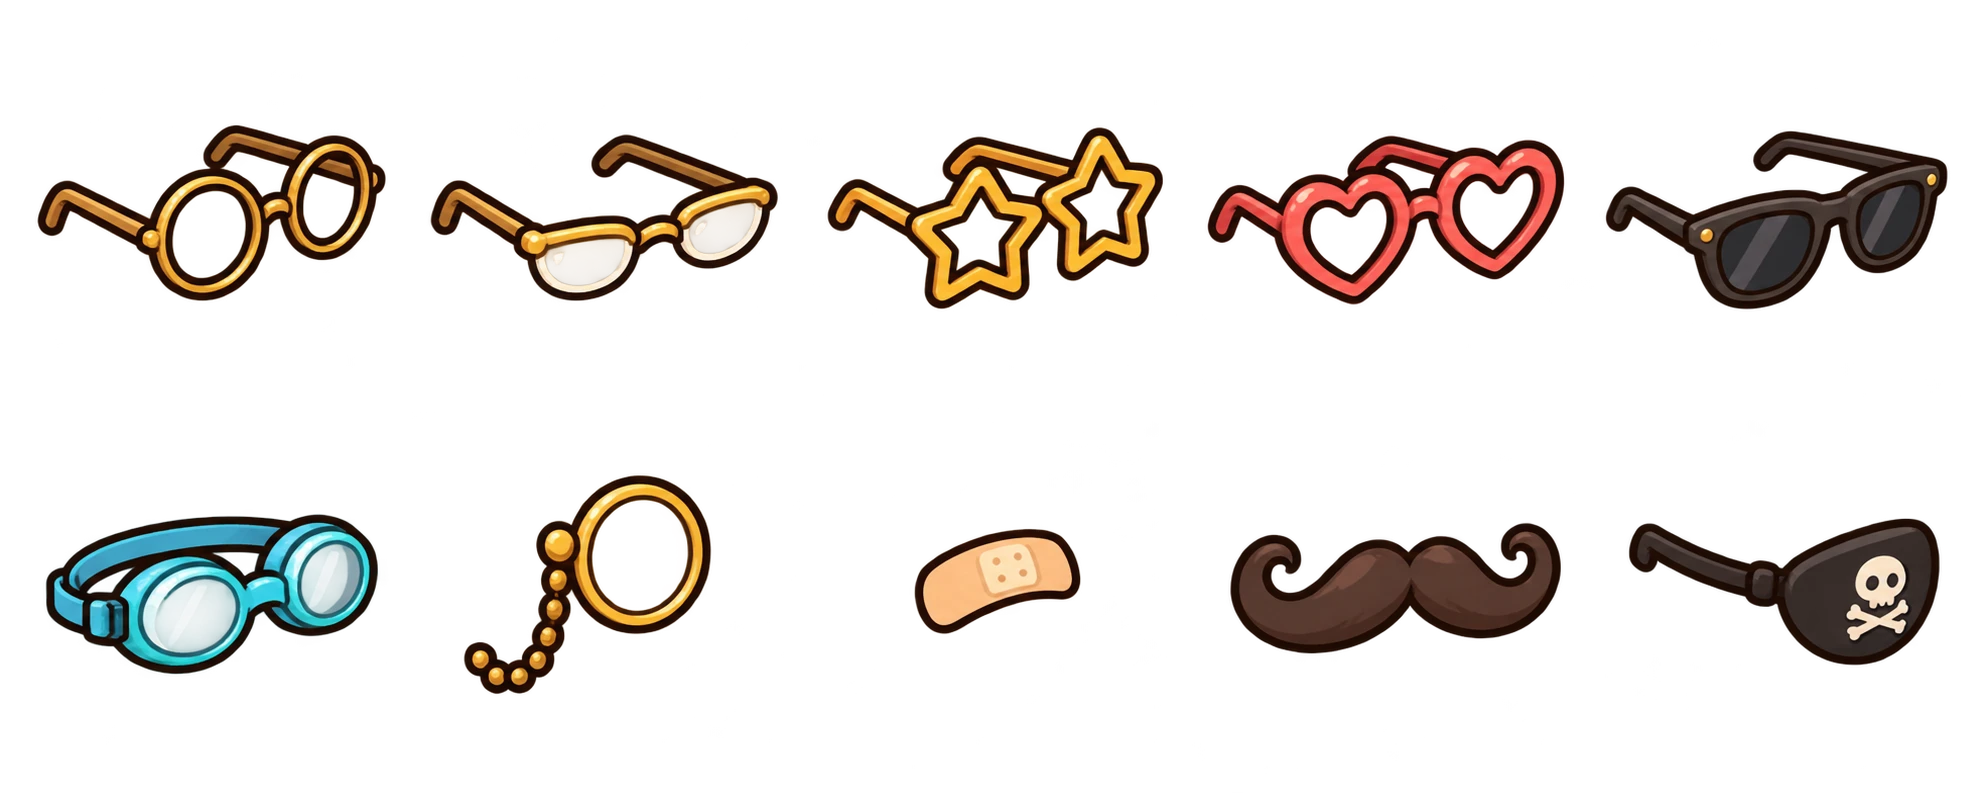
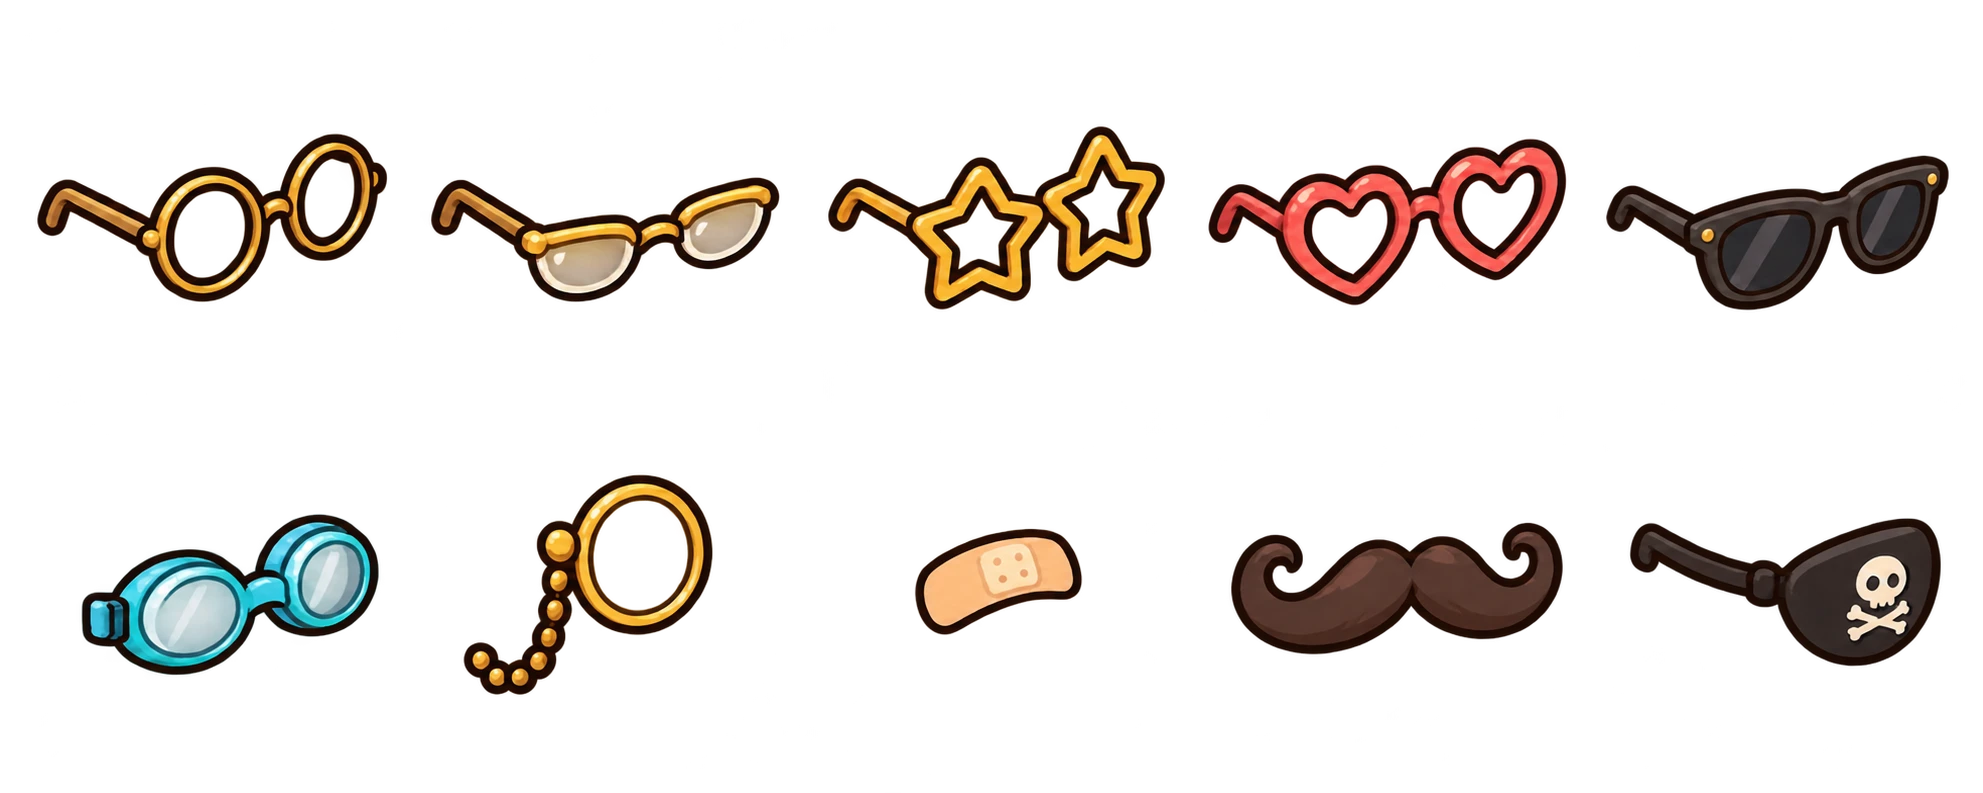
꾸미기: 숲 · 배 · 눈밭에서도 소품이 보이게 · 다시 그린 얼굴 · 목 시트 적용
- 도끼 · 배 · 눈/모래 시트도 컷마다 귀 줄 · 몸통 상자를 재서 등록 (전엔 기본 시트에만 얹혀서 필드 숲 · 배 · 눈밭에선 모자가 사라졌다)
- 05_face · 06_neck 을 다시 그린 만큼 atlas 범위를 새로 재고, 보정 값(dx · dy · k)을 거꾸로 맞춰 남은 그림은 전과 같은 자리 · 크기
- verify: 웨이브 가장자리 등장 기다림 6초 → 10초 (가끔 늦어 실패)

diff --git a/src/shared/cosmetics-draw.ts b/src/shared/cosmetics-draw.ts
@@ -7,7 +7,7 @@
 //     몸 · 꼬리 위로는 가방이 보이고 머리엔 가려진다 (뒤에만 그리면 대기 자세에선 큰 머리와 꼬리에 거의 다 가려졌다)
 //   · 냥펀치 줄(두 발)은 옷의 두 발 짝(up, 기준 컷 = 냥펀치 첫 컷), 구르기 줄은 귀가 안 보여 자동으로 숨는다
 // 소품마다 보정(src/data/cosmetics-fit.json — dx · dy · k · rot · anchor · clip · behind · r)은 cosmetics.ts fitOf. 왼쪽은 치즈와 함께 좌우로 뒤집는다.
-// 도끼 · 배 · 눈밭 · 낚시 · 샌드보드 시트는 아직 안 얹는다 (그 시트도 cat-anchors.mjs 로 재면 된다).
+// 도끼 · 배 · 눈밭/모래 시트도 컷마다 재 두었다 (기준 컷은 늘 기본 시트 대기 첫 컷 — 귀 줄 길이 비로 시트마다 다른 그림 배율도 맞는다). 낚시 · 샌드보드 시트는 아직.
 import anchorsData from '../data/cat-anchors.json' with { type: 'json' };
 import { image } from './assets.ts';
 import { CAT_ROW } from './cat.ts';
@@ -19,9 +19,9 @@ const ANCHORS = anchorsData as Record<string, FrameAnchor[][]>;
 /** 기준점을 재 둔 시트 → cat-anchors.json 의 이름 */
 const keyOf = new Map<Sheet, string>();
 let wardrobe: { worn: Partial<Record<CosSlot, string>> } = { worn: {} };
-/** 치즈 기본 시트와 옷장 (main 이 처음에 한 번 — 옷장 객체를 계속 본다) */
-export function setCosmetics(sheet: Sheet, w: { worn: Partial<Record<CosSlot, string>> }) {
-  keyOf.set(sheet, 'cat');
+/** 치즈 시트(key = cat-anchors.json 의 이름)와 옷장 (main 이 불러올 때 시트마다 — 옷장 객체를 계속 본다) */
+export function setCosmetics(sheet: Sheet, w: { worn: Partial<Record<CosSlot, string>> }, key = 'cat') {
+  keyOf.set(sheet, key);
   wardrobe = w;
 }
 
@@ -30,7 +30,7 @@ const clamp = (v: number, a: number, b: number) => Math.max(a, Math.min(b, v));
 /** 소품 자리 (컷 안 px) — 기준 컷에서의 자리를 이 컷의 귀 줄 · 몸통 상자로 옮긴다. 기준점이 없는 컷(구르기)이면 null */
 function place(key: string, row: number, col: number, art: CosArt, fit: Fit, up: boolean): Placed | null {
   const F = ANCHORS[key]?.[row]?.[col];
-  const R = ANCHORS[key]?.[up ? CAT_ROW.punch : 0]?.[0];
+  const R = ANCHORS.cat[up ? CAT_ROW.punch : 0]?.[0]; // 기준 컷은 늘 기본 시트
   if (!F?.ears || !R?.ears || !R.bbox) return null;
   const B = R.bbox;
   const cx = B[0] + (art.hint[0] + fit.dx) * B[2];
@@ -116,7 +116,7 @@ function cutOf(sheet: Sheet, key: string, row: number, col: number, id: string, 
 function drawLayer(ctx: CanvasRenderingContext2D, sheet: Sheet, key: string, row: number, col: number, ids: string[], s: number, behind: boolean) {
   const f = sheet.frames[row]?.[col];
   if (!f) return;
-  const up = row === CAT_ROW.punch;
+  const up = key === 'cat' && row === CAT_ROW.punch;
   for (const id of ids) {
     const it = COS[id];
     const fit = fitOf(id);

diff --git a/src/field/field-draw.ts b/src/field/field-draw.ts
@@ -28,7 +28,7 @@ import {
   type Whale,
 } from './field.ts';
 import { drawCatFrame } from '../shared/cosmetics-draw.ts';
-import { drawFrame, type Sheet } from '../shared/sheet.ts';
+import { type Sheet } from '../shared/sheet.ts';
 import { drawAcorn, drawSquirrel } from './squirrel-draw.ts';
 
 /** squirrel = 숲 다람쥐 (던전 몬스터 시트 — 처음엔 안 불러와져 있을 수 있다) */
@@ -773,13 +773,13 @@ export function drawField(
   const q0 = (size / sheet.base) * (rs ?? sheet.rowScale[row] ?? 1);
   const mid = fr ? { x: s.x + s.flip * (fr.ox + fr.sw / 2) * q0, y: s.y + bob + (fr.oy + fr.sh / 2) * q0 } : { x: s.x, y: s.y };
   const ride = boatWithWhale(s.whale, mid.x, mid.y);
-  if (ride === null || !fr) drawCatFrame(ctx, sheet, row, col, s.x, s.y + bob, size, s.flip, rs); // 걷기(기본 시트)면 꾸미기 소품도
+  if (ride === null || !fr) drawCatFrame(ctx, sheet, row, col, s.x, s.y + bob, size, s.flip, rs); // 걸친 꾸미기 소품도 (걷기 · 도끼 · 배 · 눈밭 시트 모두)
   else if (ride !== 'hide') {
     const q = q0 * ride.scale;
     ctx.save();
     ctx.translate(ride.x, ride.y);
     ctx.rotate(ride.spin);
-    drawFrame(ctx, sheet, row, col, -s.flip * (fr.ox + fr.sw / 2) * q, -(fr.oy + fr.sh / 2) * q, size * ride.scale, s.flip, rs);
+    drawCatFrame(ctx, sheet, row, col, -s.flip * (fr.ox + fr.sw / 2) * q, -(fr.oy + fr.sh / 2) * q, size * ride.scale, s.flip, rs);
     ctx.restore();
   }
   if (s.mode === 'axe') drawFoliage(ctx, s.x, s.y, body);

diff --git a/src/main.ts b/src/main.ts
@@ -2196,6 +2196,9 @@ const step = (t: string) => {
   setSalon(closet, catSheet);
   step('도끼·배·눈길 시트');
   [axeSheet, boatSheet, snowSheet] = await Promise.all([loadAxe(), loadBoat(), loadSnow()]);
+  setCosmetics(axeSheet, closet, 'axe'); // 숲 · 배 · 눈밭 모습에도 소품을
+  setCosmetics(boatSheet, closet, 'boat');
+  setCosmetics(snowSheet, closet, 'snow');
   step('지형');
   await terrainReady;
   field = makeFieldState(FIELD.start, terrainAt);

diff --git a/CLAUDE.md b/CLAUDE.md
@@ -106,13 +106,13 @@
   · **뽀송 — 미용실 · 꾸미기 소품**(2026-10-13 사용자 소품 시트 `art/cosmetics/salon` — 15장 · 150그림, 털 염색은 하지 않기로): 몸에 걸치는 100개만 쓴다
     (머리 40 · 얼굴 10 · 목 10 · 옷 20(네 발 · 두 발 짝) · 등 10 · 무늬 10 — 꼬리 · 발 · 미용 도구 · 미용실 가구는 아직 안 씀). 좌표는 atlas.json → tools/assets.mjs → `src/data/cosmetics.json`
     (소품마다 그림 범위 · 칸 · hint · 두 발 짝 `up` · 머리까지 덮는 옷 `head`, 미용실 탭 7). 로직 src/shared/cosmetics.ts(옷장 — 칸마다 하나, 사기 · 입기/벗기 · 모두 벗기, 값은 칸마다 `COS_PRICE`),
-    그리기 src/shared/cosmetics-draw.ts `drawCatFrame`(치즈 한 컷 + 소품 — drawFrame 대신) — **치즈 기본 시트(cat_action_sheet)로 그리는 곳마다**(마을 둘 · 필드 걷기 · 던전 · 미로 · 훈련장 · 다람쥐 잡기 · 장작 패기 맞음).
+    그리기 src/shared/cosmetics-draw.ts `drawCatFrame`(치즈 한 컷 + 소품 — drawFrame 대신) — **치즈 시트로 그리는 곳마다**(마을 둘 · 필드 걷기 · 도끼(숲) · 배 · 눈밭/모래 · 던전 · 미로 · 훈련장 · 다람쥐 잡기 · 장작 패기 맞음).
     **자리는 컷마다 미리 재 둔 기준점**(2026-10-13 저녁 사용자 — "회전 · 반전 · 잘라 쓰기로 어긋남을 최대한 막자": `node tools/cat-anchors.mjs` → `src/data/cat-anchors.json`, 확인 그림 tools/out/cat-anchors.png):
     귀 안쪽 분홍 둘을 이은 **귀 줄**(자리 · 길이 · 기울기 — 28컷, 구르기 두 컷은 없어 소품이 저절로 숨는다)과 실루엣을 열기로 꼬리를 지우고 머리 원을 뺀 **몸통 상자**. 눈은 윤곽선과 같은 검정이라 못 가른다.
     소품 hint(기준 컷 = 대기 첫 컷, 두 발 옷은 냥펀치 첫 컷의 그림 범위 비율)를 머리 소품(모자 · 얼굴 · 목 · 무늬 — `anchor: head`)은 귀 줄에서의 상대 자리로 바꿔 컷마다 귀 줄에 맞춰 옮기고 키우고 **돌리고**,
     몸 소품(옷 · 등 — `anchor: body`)은 가로만 몸통 상자에 맞춰 늘이고 세로는 상자 꼭대기(등선)에서 기준 컷만큼. **clip**(옷 · 목 · 무늬)은 실루엣(2px 넉넉히) 밖을 잘라 낸다(몸 윤곽 밖으로 안 삐져나옴),
     **behind 1**(날개)은 몸 뒤에, **behind 2**(가방)는 뒤에 한 번 + 앞에 "실루엣에서 머리(귀 줄 둘레 원 · 귀)를 뺀 곳"만 한 번 더 — 꼬리보다 앞 · 머리보다 뒤 · 몸통 위 (뒤에만 그리면 대기 자세의 큰 머리 · 꼬리에 가려졌다).
-    잘라 둔 소품은 컷 · 소품마다 캔버스로 두고(컷 크기) 보정이 바뀌면 버린다. 머리까지 덮는 옷이면 모자는 안 그린다. 도끼 · 배 · 눈밭 · 낚시 · 샌드보드 시트는 아직 — 그 시트도 cat-anchors.mjs `SHEETS` 에 더해 재면 된다.
+    잘라 둔 소품은 컷 · 소품마다 캔버스로 두고(컷 크기) 보정이 바뀌면 버린다. 머리까지 덮는 옷이면 모자는 안 그린다. 도끼 · 배 · 눈밭/모래 시트도 재 두었다(2026-10-13 — 필드 숲 · 배에서 모자가 사라졌다, main 이 시트마다 `setCosmetics(sheet, closet, 이름)`, 기준 컷은 늘 기본 시트 — 귀 줄 길이 비로 시트 배율도 맞음). 배 시트의 몸통 상자는 배까지 들어가 옷 · 등은 다시 쓸 때 손봐야 한다. 낚시 · 샌드보드 시트는 아직 — cat-anchors.mjs `SHEETS` 에 더해 재면 된다.
     **소품마다 보정 `src/data/cosmetics-fit.json`**(칸 기본 `slot` + 소품 `item` — dx · dy(hint 단위) · k 너비 · rot 도 · anchor · clip · behind · r 시트 일부만) — **조절 도구 `tools/cos-fit.html`**(`npm run fit` — 개발 서버를 5180 에 띄우고 이 페이지를 연다, 주소 http://127.0.0.1:5180/tools/cos-fit.html:
     소품을 고르면 컷 24개에 얹어 보여 주고 슬라이더로 바꾸며 JSON 을 내준다 → 파일에 옮겨 적는다). 탭마다 전부 한 장에 보는 건 tools/out/cos-sheet.mjs (임시).
     **옷 · 등 칸은 잠시 안 쓴다**(2026-10-13 사용자 — 자리를 못 잡겠다: cosmetics-fit.json `hidden` — 미용실 탭에서 빠지고, 이미 걸쳤어도 안 그린다. 소품 62개는 사용자가 조절 도구로 고른 값). 미용실 창: 탭 5 · 소품 칸 5×4 · 고르면 모습 원의 치즈가 입어 본 모습 · 사고 입기 / 입기 / 벗기 · 모두 벗기 (키: 1~7 탭 · 방향키 · Enter · X). 옷장은 localStorage `nyang.cosmetics.v1` (`fromWardrobe`), 검증 훅 `__game.closet` · `dogPoints().salon`.

diff --git a/docs/PROGRESS.md b/docs/PROGRESS.md
@@ -43,7 +43,7 @@
 - 바다 고래: 배 속 미로 전용 그림(살 벽 · 갈비뼈 · 숨구멍)이 오면 maze-draw 의 고래 색·그리기만 바꾼다. 호수·강에도 원하면 field.json whale.sea 에 조각을 더한다.
 - 숲 (2026-10-07 · 08): 장작 패기 그림(기둥 토막 · 좌우 가지 · 그루터기 · 날아가는 토막 · 배경)이 오면 timber-draw 의 그리기 함수만 바꾼다 (다람쥐 잡기는 2026-10-12 에 사용자 그림으로 바꿨다). 아이디어 4(만들기 — 통나무·잎사귀로 잎사귀 모자·나뭇잎 망토·도토리 망치)는 재료가 쌓이면. 왼쪽 숲 지역은 잠김 (마스크는 미리 만들어 둠).
 - 폴더 나누기: 2026-10-12 밤에 제안대로 했다 (결정 기록). 다음 단계(따로): main.ts(이제 2100줄 남짓)의 장면별 입력 · 전환을 각 폴더로.
-- 꾸미기 (2026-10-13): 도끼 · 배 · 눈밭 · 낚시 · 샌드보드 시트에도 소품을 얹으려면 tools/cat-anchors.mjs SHEETS 에 더해 기준점을 재고 cosmetics-draw 에 시트 이름을 등록한다 (지금은 기본 시트만). 소품 자리가 어색한 건 tools/cos-fit.html 로 보정 값을 골라 cosmetics-fit.json 에. 꼬리 · 발 소품(발 하나씩 나눠 붙이기) · 미용실 가구 · 털 염색은 아직.
+- 꾸미기 (2026-10-13): 낚시 · 샌드보드 시트에도 소품을 얹으려면 tools/cat-anchors.mjs SHEETS 에 더해 기준점을 재고 main 에서 setCosmetics 로 등록한다 (도끼 · 배 · 눈밭/모래는 했다 — 배 시트 몸통 상자는 배까지 들어가 옷 · 등을 다시 쓸 땐 손볼 것). 소품 자리가 어색한 건 tools/cos-fit.html 로 보정 값을 골라 cosmetics-fit.json 에. 꼬리 · 발 소품(발 하나씩 나눠 붙이기) · 미용실 가구 · 털 염색은 아직.
 - 강아지마을 (2026-10-12): 길드 등급 보상(구역 개방 등)은 사용자가 나중에 고도화 — 지금은 점수 · 이름만.
   훈련장 · 망치질 · 로프 카드는 캔버스 그림 — 전용 그림이 오면 training-draw 의 drawYard · drawDummy · drawBall, dogtown-draw 의 drawHammer · drawRope 만 바꾼다.
   대장간 재료 광석(구리 · 철 · 금 · 석탄)은 열린 구역에서 얻기 어려워 모자란 만큼 사서 채운다 — 광산 콘텐츠가 생기면 그쪽 재료로. 주민 걷는 시트(walk 줄)는 있지만 아직 제자리.
@@ -72,6 +72,10 @@
   tools/cat-anchors.mjs 가 컷마다 재 둔다 (src/data/cat-anchors.json). 전엔 그리는 순간 머리 너비만 재서 맞췄다.
 - 머리 소품은 귀 줄을 따라 **돌아간다**(고개를 든 컷 · 숙인 컷), 옷은 몸통에 맞춰 늘이고 **실루엣 밖은 잘라 낸다**, 가방은 **머리만 오려 내고 앞에**(대기 자세에선 뒤에 그리면 큰 머리와 꼬리에 거의 다 가려졌다), 날개는 뒤.
 - 소품마다 보정 파일(cosmetics-fit.json)과 조절 도구(tools/cos-fit.html — 컷 24개에 얹어 보며 슬라이더로)를 두었다. 탭 7개 전부를 컷 8개에 얹은 그림으로 훑어 등 소품만 손봤다 (가방 올리고 작게, 날개 뒤 · 위).
+- 사용자가 조절 도구로 고른 62개 자리를 넣고, 옷 · 등 칸은 잠시 안 쓴다 (`hidden`).
+- **필드 숲 · 배 · 눈밭에서 모자가 사라지던 것**(사용자 "게임에서 모자가 제대로 안 써진다"): 소품은 기본 시트에만 얹혀서 도끼 · 배 · 눈/모래 시트로 바뀌면 안 보였다. 그 세 시트도 기준점을 재서 등록했다 (기준 컷은 기본 시트 그대로 — 귀 줄 길이 비로 시트 배율도 맞음).
+- **얼굴 · 목 시트를 다시 그림**(사용자 — 05_face · 06_neck, 안경 다리 · 목걸이 줄을 덜어 냄): atlas.json 의 그림 범위(bboxAlpha32)를 새로 재고(tools/out/cos-rebbox.mjs),
+  범위가 바뀐 만큼 cosmetics-fit.json 의 dx · dy · k 를 거꾸로 보정해 남은 그림은 화면에서 전과 같은 자리 · 크기 (고른 자리를 다시 안 잡아도 되게 — 전/후 비교 tools/out/cos-ab.png).
 
 ### 2026-10-12 · 강아지마을 (길드 · 대장간 · 우체국 · 탐험가 · 구조대 · 훈련장 · 미용실 준비 중)
 
